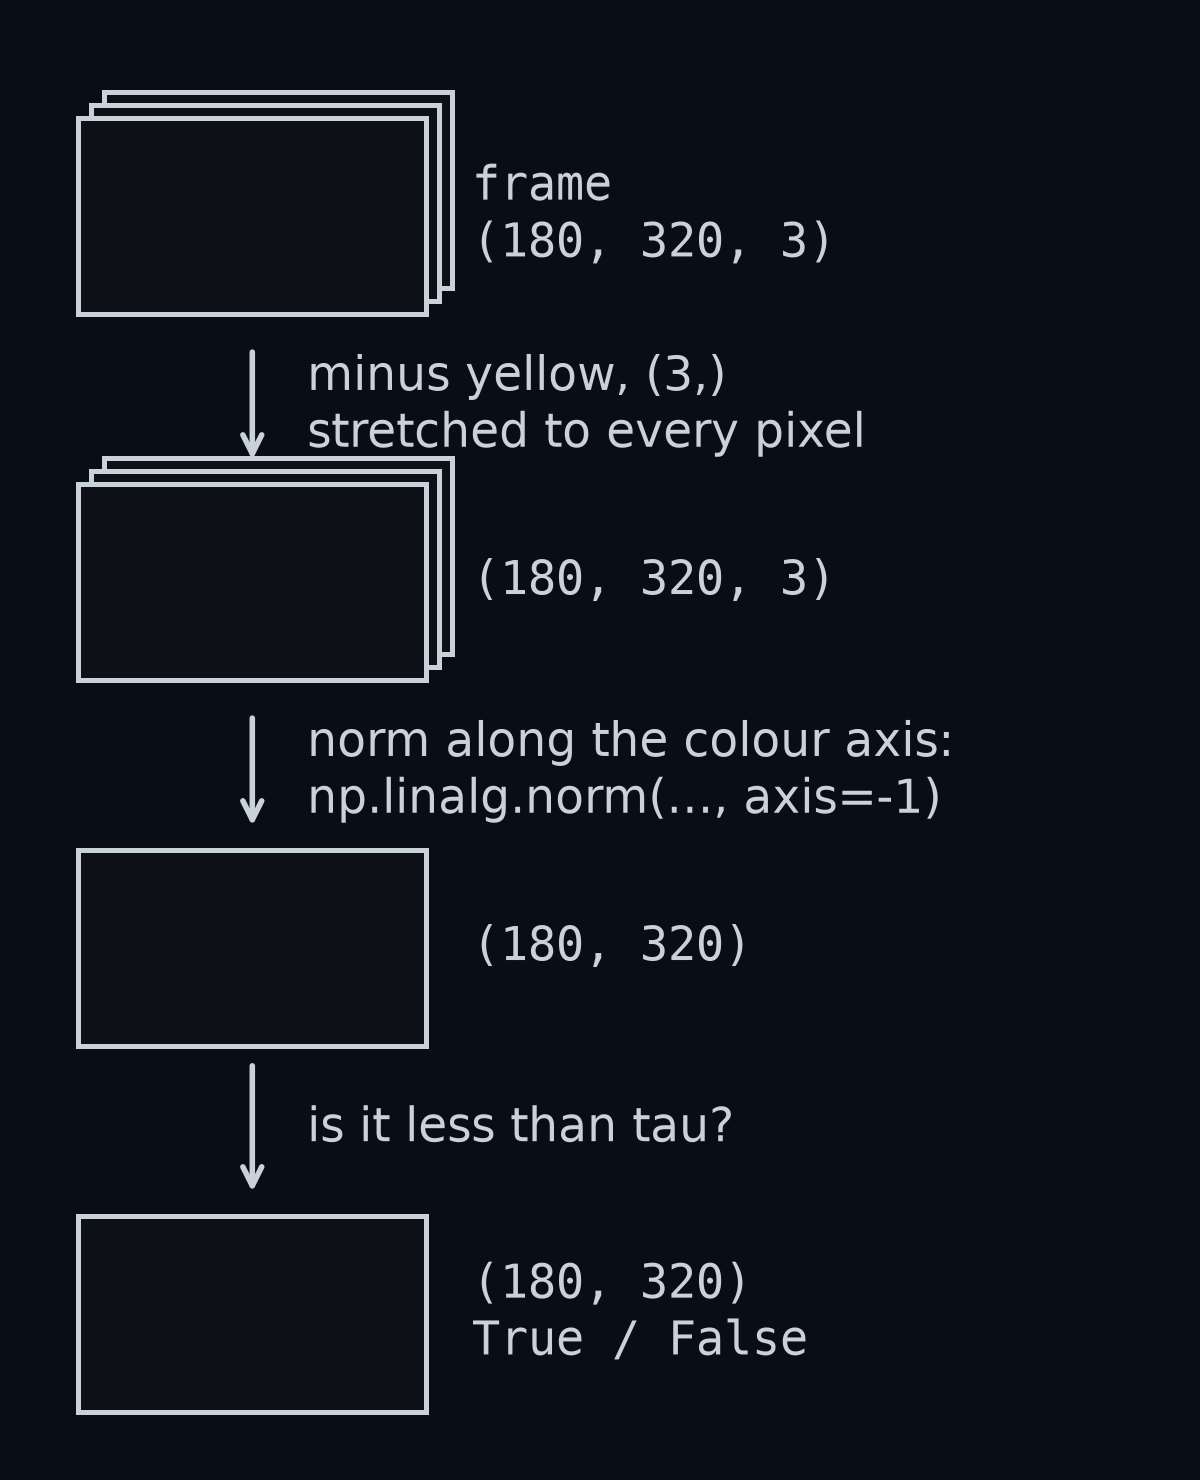
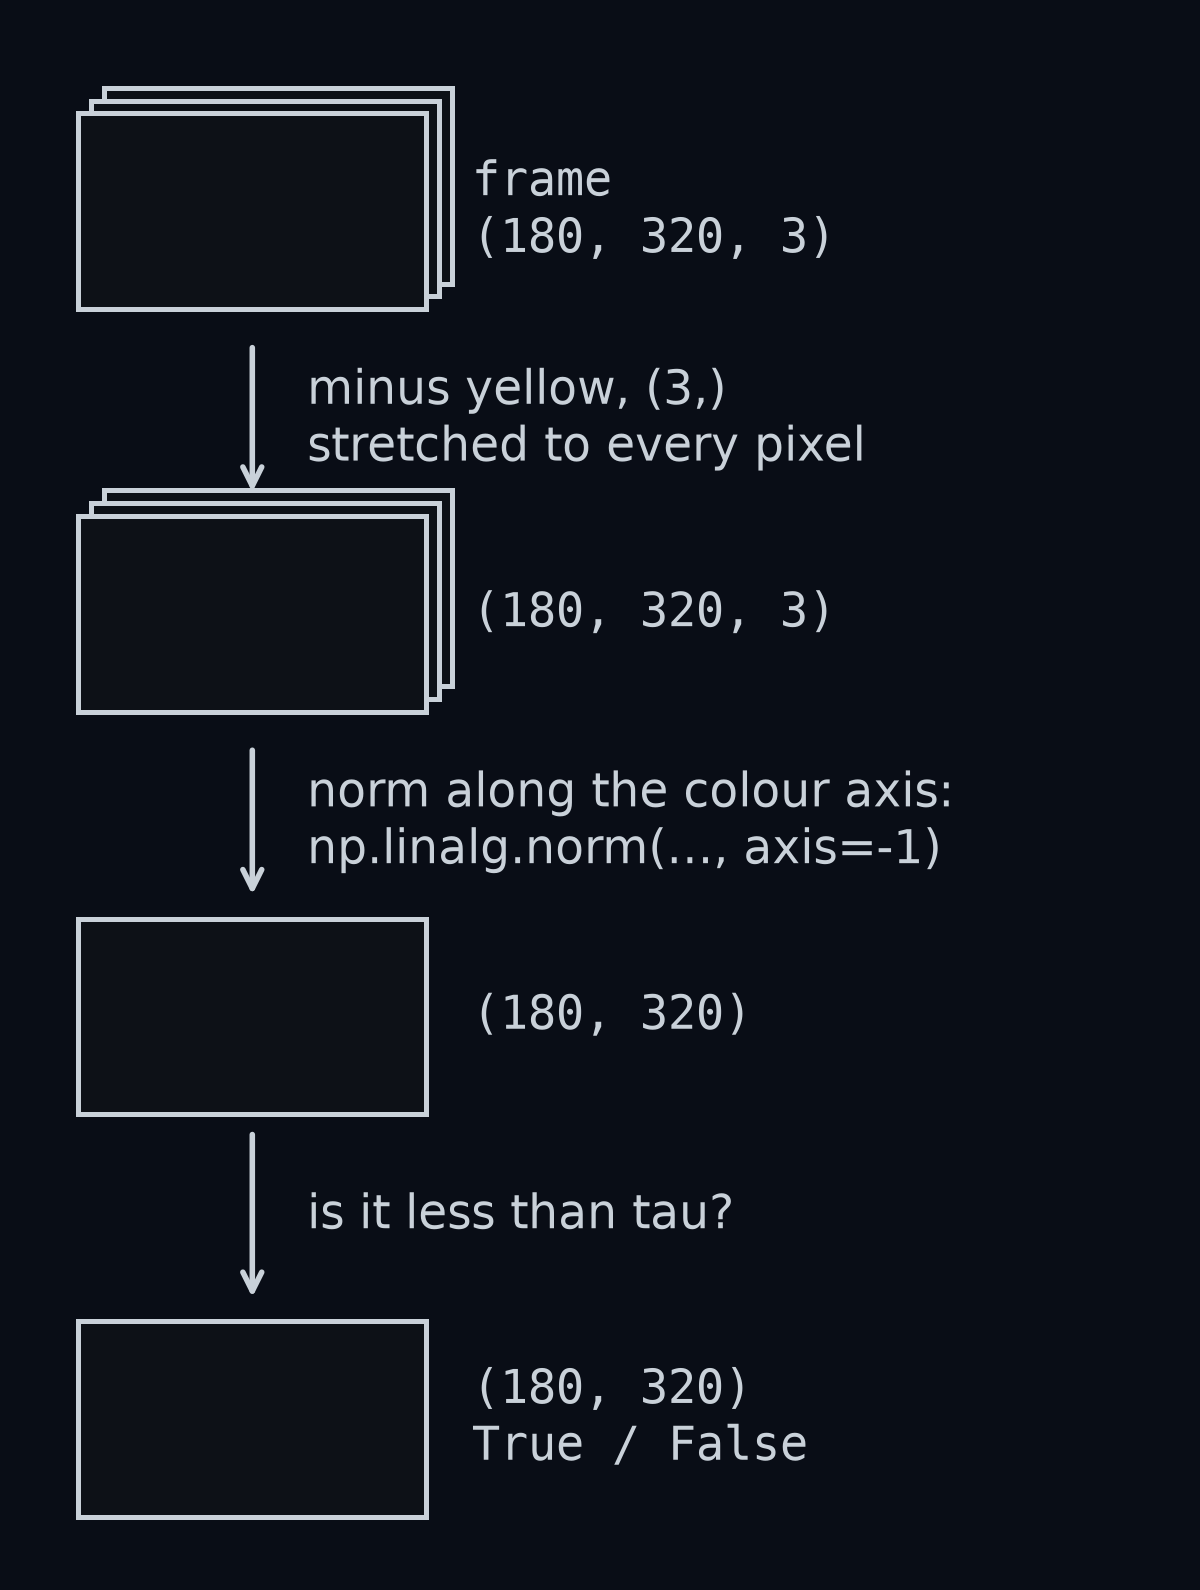
fix(0.1.2): review and figure-gate round

diff --git a/course/0.1.2-images-are-arrays/figures.py b/course/0.1.2-images-are-arrays/figures.py
@@ -88,6 +88,11 @@ def _show_patch(ax, patch, title, outline=None):
         for j in range(patch.shape[1]):
             dark = float(np.dot(patch[i, j], (0.299, 0.587, 0.114))) > 150
             ax.text(j, i, _rgb_text(patch[i, j]), ha="center", va="center", fontsize=CELL, linespacing=0.9, color=BACKGROUND if dark else TEXT)
+    for edge in np.arange(-0.5, patch.shape[0], 1):  # a dark gap between pixels, so each pixel's three numbers read as one group
+        ax.axhline(edge, color=BACKGROUND, lw=5)
+    for edge in np.arange(-0.5, patch.shape[1], 1):
+        ax.axvline(edge, color=BACKGROUND, lw=5)
+    ax.text(patch.shape[1] - 0.4, 0, "← R\n← G\n← B", ha="left", va="center", fontsize=CELL, linespacing=0.9, color=TEXT)  # the key, level with the first row's three numbers
     if outline is not None:
         for colour, width in ((BACKGROUND, 6), (TEXT, 3)):
             ax.add_patch(Rectangle((outline[1] - 0.5, outline[0] - 0.5), 1, 1, fill=False, edgecolor=colour, lw=width))
@@ -137,7 +142,7 @@ def _row_col(path, clean):
     ax.tick_params(pad=24)  # keeps the 0 ticks clear of the frame[0, 0] circle that overhangs the corner
     ax.xaxis.set_label_position("top")
     ax.set(xlabel="column index (0 at the left)", ylabel="row index (0 at the top)")
-    pixels = ((0, 0, (30, 30)), (179, 160, (80, 232)), (*MARK, (100, 108)))
+    pixels = ((0, 0, (30, 30)), (179, 160, (170, 232)), (*MARK, (0, 232)))
     for row, col, text_at in pixels:
         ax.add_patch(Circle((col, row), 7, fill=False, edgecolor=TEXT, lw=2.5, clip_on=False))
         ax.annotate(f"frame[{row}, {col}]\n= {tuple(int(v) for v in clean[row, col])}", xy=(col, row), xytext=text_at, va="center",
@@ -167,14 +172,14 @@ def _slices(path, clean):
     ax.add_patch(Rectangle((-0.5, -0.5), width, 76, facecolor=BACKGROUND, alpha=0.6, edgecolor=TEXT, lw=2))
     ax.add_patch(Rectangle((-0.5, 99.5), width, 80, facecolor=TEXT, alpha=0.25, edgecolor=TEXT, lw=2))
     ax.text(160, 38, "frame[:76]\nshape (76, 320, 3), all sky", ha="center", va="center", bbox=LABEL_BOX)
-    ax.text(160, 140, "frame[100:180]\nshape (80, 320, 3)", ha="center", va="center", bbox=LABEL_BOX)
+    ax.text(165, 150, "frame[100:180]\n(80, 320, 3)", ha="center", va="center", bbox=LABEL_BOX)
     ax.set_yticks([0, 76, 100, 179])
     ax.set(xlabel="column index", ylabel="row index (0 at top)")
     fig.tight_layout()
     _save(fig, path)
 
 
-ROW_TICKS = [80, 100, 120, 140, 160, 179]
+ROW_TICKS = [79, 100, 120, 140, 160, 179]
 
 
 def _line_width(path, clean, labels):
@@ -185,7 +190,7 @@ def _line_width(path, clean, labels):
     fig = _fig(7.6)
     frame_ax, ax = fig.subplots(2, 1, gridspec_kw={"height_ratios": [0.55, 1]})
     _show(frame_ax, clean, "the road part of the frame,\nrows 79 to 179")
-    frame_ax.set(ylim=(179.5, 78.5), ylabel="row index", xlabel="column index", yticks=[80, 130, 179])
+    frame_ax.set(ylim=(179.5, 78.5), ylabel="row index", xlabel="column index", yticks=[79, 130, 179])
     ax.plot(widths, rows, marker="o", markersize=4, color=BASE, lw=1.5)
     ax.set(xlim=(0, 25), ylim=(179.5, 78.5), xlabel="width of the white line (pixels)", ylabel="row index")
     ax.set_yticks(ROW_TICKS)
@@ -206,11 +211,13 @@ def _rgb_cube(path):
         axis.pane.set_alpha(0)  # no grey pane boxes on the dark background
         axis._axinfo["grid"]["color"] = BORDER
     ax.set(xlim=(0, 255), ylim=(0, 255), zlim=(0, 255), xticks=[0, 255], yticks=[0, 255], zticks=[0, 255])
-    ax.set(xlabel="red", ylabel="green", zlabel="blue")
-    ax.set_box_aspect((1, 1, 1), zoom=0.8)
+    for name, setter in (("red", ax.set_xticklabels), ("green", ax.set_yticklabels), ("blue", ax.set_zticklabels)):
+        setter([f"{name} 0", f"{name} 255"])  # each axis name sits beside its own two end numbers
+    ax.set_box_aspect((1, 1, 1), zoom=0.7)
     ax.view_init(elev=22, azim=-62)
-    ax.tick_params(axis="y", pad=14)
-    ax.tick_params(axis="z", pad=6)
+    ax.tick_params(axis="x", pad=-4)
+    ax.tick_params(axis="y", pad=24)
+    ax.tick_params(axis="z", pad=26)
     offsets = {"sky": (-30, 0, 45), "grass": (-4, 0, -48), "road": (-50, 0, 45), "yellow": (10, 0, 62), "white": (-20, 0, -50)}
     for name, colour in zip(NAMES, PALETTE.astype(int)):
         ax.scatter(*colour, s=200, color=SCENE[name], edgecolor=TEXT, linewidth=1.2, depthshade=False)
@@ -326,7 +333,7 @@ def _exact_odds(path):
     ax.plot(x, pdf(x), color=DIM, lw=2.5)
     inside = np.abs(x) <= 0.5
     ax.fill_between(x[inside], pdf(x[inside]), color=BASE, linewidth=0)
-    ax.set(xlim=(-20, 20), ylim=(0, pdf(0) * 1.4), xlabel="nudge", ylabel="how common\n(bell height)")
+    ax.set(xlim=(-20, 20), ylim=(0, pdf(0) * 1.4), xticks=list(range(-18, 19, 6)), xlabel="nudge", ylabel="how common\n(bell height)")
     ax.annotate(f"−0.5 to +0.5:\n{sliver * 100:.1f}%", xy=(0, pdf(0) * 0.5), xytext=(10, pdf(0) * 1.0), va="center", ha="center", color=BASE,
                 arrowprops={"arrowstyle": "->", "color": BASE, "lw": 2})
     ax.text(-6.8, pdf(6), "σ = 6", ha="right", va="center")
@@ -350,13 +357,13 @@ def _step(ax, y_from, y_to, text):
 
 
 def _broadcast_shapes(path):
-    fig = _fig(7.4)
+    fig = _fig(7.95)
     ax = fig.subplots()
-    ax.set(xlim=(0, 6), ylim=(0, 7.4))
+    ax.set(xlim=(0, 6), ylim=(0, 7.95))
     ax.set_aspect("equal")
     ax.axis("off")
     big = (1.9, 1.07)  # 320 wide, 180 tall
-    tops = (7.1, 5.1, 3.1, 1.1)  # top edge of each box; boxes are 1.07 tall
+    tops = (7.7, 5.5, 3.3, 1.1)  # top edge of each box; boxes are 1.07 tall
     for top, label, depth in zip(tops, ("frame\n(180, 320, 3)", "(180, 320, 3)", "(180, 320)", "(180, 320)\nTrue / False"), (True, True, False, False)):
         _box(ax, (1.1, top - big[1] / 2), big, depth)
         ax.text(2.3, top - big[1] / 2, label, ha="left", va="center", family="monospace")
@@ -379,7 +386,7 @@ def _colour_distance(path, noisy, labels):
         ax.axvline(PAINT_DISTANCE, color=TEXT, linewidth=2, linestyle="--")
         ax.set(yscale="log", xlim=(0, top + 8), ylim=(0.7, 1.5e7), xlabel=f"distance to {NAMES[paint]} paint\n{tuple(int(v) for v in PALETTE[paint])}",
                ylabel="number of pixels\n(each step ×10)", title=f"every pixel, distance to {NAMES[paint]}")
-        ax.set_yticks([1, 100, 10_000, 1_000_000])
+        ax.set_yticks([10 ** k for k in range(8)])  # every decade, so the axis label's "each step ×10" is what the ticks show
         ax.yaxis.set_major_formatter(THOUSANDS)
         gap_lo, gap_hi = d[is_paint].max(), d[~is_paint].min()
         for y, text in ((4e6, f"τ = {PAINT_DISTANCE:g}"), (4e5, f"paint ≤ {gap_lo:.1f}"), (3e4, f"nearest other\npixel: {gap_hi:.1f}")):
@@ -510,10 +517,10 @@ def _next_lesson(path):
     fig = _fig(4.8)
     ax = fig.subplots()
     _show(ax, _mask_picture(yellow, white), "the two masks, with the car\n0.5 m left of the lane centre")
-    ax.set(ylim=(height + 26, -0.5), xlim=(-0.5, width - 0.5))
+    ax.set(ylim=(height + 30, -0.5), xlim=(-0.5, width - 0.5))
     ax.axis("off")
     ax.plot([width / 2], [height - 1], marker="^", markersize=18, color=TEXT, clip_on=False)
-    ax.text(width / 2, height + 12, "the car", ha="center", va="center", fontsize=TITLE)
+    ax.text(width / 2, height + 17, "the car", ha="center", va="center", fontsize=TITLE)
     ax.text(width / 2, 125, "?", ha="center", va="center", fontsize=60, color=TEXT)
     fig.tight_layout()
     _save(fig, path)

diff --git a/course/0.1.2-images-are-arrays/lecture.md b/course/0.1.2-images-are-arrays/lecture.md
@@ -20,7 +20,7 @@ Your car's camera gives you a bigger grid. Each picture it takes is called a **f
 
 Multiply the three sizes: $180 \times 320 \times 3 = 172{,}800$ numbers, every 0.05 seconds. In the lab, a frame is a NumPy array with **shape** `(180, 320, 3)`. The shape lists how long the array is along each of its directions, which NumPy calls **axes**: 180 rows, 320 columns, 3 colour values.
 
-![Top: the camera frame on the straight road, with a small box where the road meets the yellow line. Bottom: the box, rows 148–153 and columns 55–60, drawn large, each of its 6 by 6 pixels labelled with its red, green and blue values.](figures/frame_grid.png)
+![Top: the camera frame on the straight road, with a small box where the road meets the yellow line. Bottom: the box, rows 148–153 and columns 55–60, drawn large, each of its 6 by 6 pixels labelled with its red, green and blue values, in that order from top to bottom, as the key beside the first row says.](figures/frame_grid.png)
 
 Zoom in on the box and the picture dissolves into its numbers. The grey road pixels are all `(90, 90, 95)`. The yellow paint pixels are all `(230, 200, 40)`. The edge between them is a staircase, because a slanted line drawn on a grid of squares always is.
 
@@ -93,7 +93,7 @@ A fraction becomes a percentage when you multiply it by 100: $0.02745 \times 100
 
 To find paint, you need a way to ask "how close is this pixel's colour to yellow?" Three numbers can be read as a position. Treat red, green and blue as three directions, like the length, width and height of a room. Then every colour is a point inside a cube whose sides run from 0 to 255, and similar colours are points close together.
 
-![The five colours of the simulator as points in a cube whose three edges are red, green and blue, each from 0 to 255. Each point is drawn in its own colour and labelled. A line joins road grey to yellow paint.](figures/rgb_cube.png)
+![The five colours of the simulator as points in a cube whose three edges are red, green and blue, each from 0 to 255. Each point is drawn in its own colour and labelled. A line joins road grey to yellow paint. Road grey and grass sit almost on top of each other in this view; they are different points, and the numbers beside them tell them apart.](figures/rgb_cube.png)
 
 How far apart are road grey, $(90, 90, 95)$, and yellow paint, $(230, 200, 40)$? Start with two of the three directions. In red they differ by $230 - 90 = 140$, and in green by $200 - 90 = 110$. Those two differences are the sides of a right-angled triangle, because the red and green directions meet at a right angle, like two walls of a room meeting in a corner. So Pythagoras' theorem gives the distance across:
 
@@ -232,7 +232,7 @@ The obvious score is the share of pixels your mask got right.
 
 **Guess first:** a lazy mask marks nothing at all. What share of the pixels does it get right, for yellow?
 
-![Top: the true yellow mask, 709 pixels. Middle: a mask that marks nothing. Bottom: two bars for the empty mask, the share of pixels it gets right, 98.8%, and the score this section builds, 0.](figures/accuracy_trap.png)
+![Top: the true yellow mask, 709 pixels. Middle: a mask that marks nothing. Bottom: two scores for the empty mask. The share of pixels it gets right is a tall bar, 98.8%; the score this section builds is 0, an empty bar.](figures/accuracy_trap.png)
 
 **Answer:** 98.8%. Yellow paint is only 1.2% of the frame, so a mask that marks nothing is right about every other pixel. A score that rates a useless mask at nearly 99% is no score at all.
 
